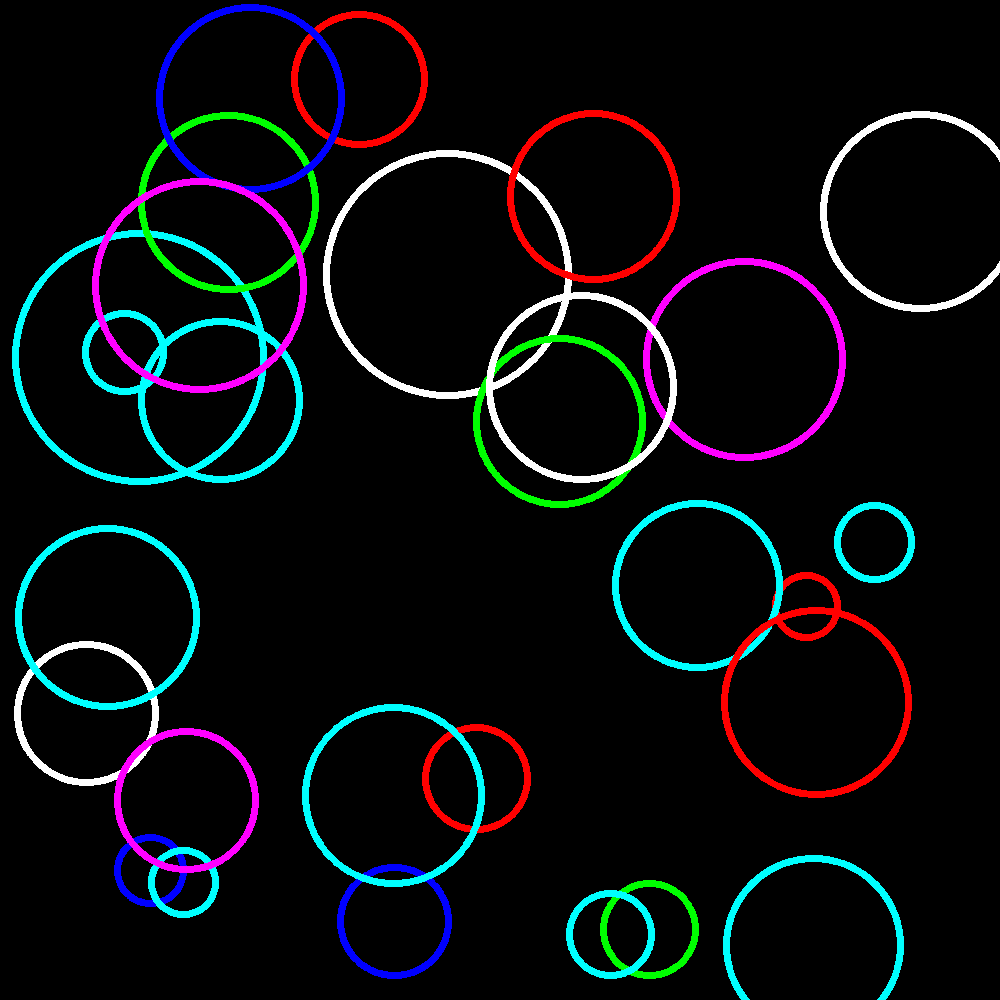
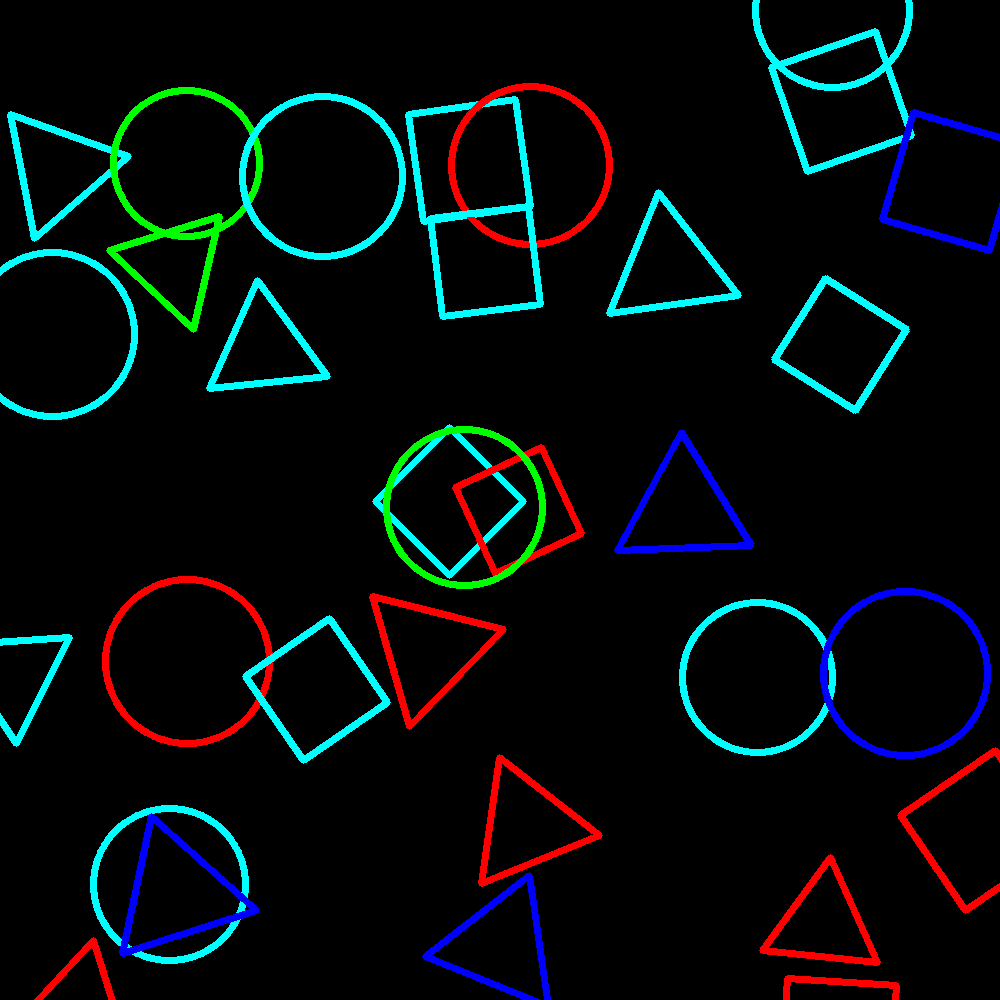
Improved grid generation

diff --git a/GeoShapesGenerator.py b/GeoShapesGenerator.py
@@ -12,13 +12,14 @@ class GeoShapesGenerator:
         self.tile_size = image_size // pieces
         self.random_min_size = int(0.05 * image_size)
         self.random_max_size = int(0.25 * image_size)
-        self.number_of_random_shapes = 20
+        self.number_of_random_shapes = 0
         self.colors = [(0, 0, 255), (0, 255, 0), (255, 0, 0),
                        (255, 255, 0), (255, 255, 0), (255, 0, 255)]
-        self.shapes = ["C", "S"]
+        self.shapes = ["C", "S", "T"]
         self.thickness = 5
         self.border_size = 1
         self.border_emptiness_thresh = 0.95
+        self.extra_space_size = 0.1
 
     def set_parameters(self, image_size: int, pieces: int) -> "GeoShapesGenerator":
         self.image_size = image_size
@@ -26,42 +27,41 @@ class GeoShapesGenerator:
         return self
 
     def generate_image(self) -> "GeoShapesGenerator":
-        def draw_square(center: tuple[int, int], radius: int, color: tuple[int, int, int]) -> None:
-            angle = random.randint(0, 89)
+        def draw_polygon(n: int, center: tuple[int, int], radius: int, color: tuple[int, int, int]) -> None:
+            angle_step = 360 // n
+            angle = random.randrange(0, angle_step)
             points = []
-            for _ in range(4):
+            for _ in range(n):
                 x_shift = int(radius * math.cos(math.radians(angle)))
                 y_shift = int(radius * math.sin(math.radians(angle)))
                 corner = [center[0] + x_shift, center[1] + y_shift]
                 points.append(corner)
-                angle += 90
+                angle += angle_step
             points = np.int32([points])
             cv.polylines(self.image, points, True, color, self.thickness)
 
-        def draw_traingle(center: tuple[int, int], radius: int, color: tuple[int, int, int]) -> None:  # TODO
-            pass
-
         def generate_possible_edges(y: int, x: int) -> list[tuple[int, int]]:
             edges = []
+            extra_space = int(self.extra_space_size * self.tile_size)
             if y != 0:  # top
                 y_pos = random.randint(
-                    y - int(0.1 * self.tile_size), y + int(0.1 * self.tile_size))
+                    y - extra_space, y + extra_space)
                 x_pos = random.randint(x, x + self.tile_size)
                 edges.append((y_pos, x_pos))
             if y != self.tile_size * (self.pieces - 1):  # bottom
                 y_pos = random.randint(
-                    y + self.tile_size - int(0.1 * self.tile_size), y + self.tile_size + int(0.1 * self.tile_size))
+                    y + self.tile_size - extra_space, y + self.tile_size + extra_space)
                 x_pos = random.randint(x, x + self.tile_size)
                 edges.append((y_pos, x_pos))
             if x != 0:  # left
                 y_pos = random.randint(y, y + self.tile_size)
                 x_pos = random.randint(
-                    x - int(0.1 * self.tile_size), x + int(0.1 * self.tile_size))
+                    x - extra_space, x + extra_space)
                 edges.append((y_pos, x_pos))
             if x != self.tile_size * (self.pieces - 1):  # right
                 y_pos = random.randint(y, y + self.tile_size)
                 x_pos = random.randint(
-                    x + self.tile_size - int(0.1 * self.tile_size), x + self.tile_size + int(0.1 * self.tile_size))
+                    x + self.tile_size - extra_space, x + self.tile_size + extra_space)
                 edges.append((y_pos, x_pos))
             return edges
 
@@ -78,9 +78,9 @@ class GeoShapesGenerator:
             if shape == "C":
                 cv.circle(self.image, center, radius, color, self.thickness)
             elif shape == "S":
-                draw_square(center, radius, color)
+                draw_polygon(4, center, radius, color)
             elif shape == "T":
-                draw_traingle(center, radius, color)
+                draw_polygon(3, center, radius, color)
 
         for y in range(0, self.image_size, self.tile_size):
             for x in range(0, self.image_size, self.tile_size):
@@ -118,9 +118,9 @@ class GeoShapesGenerator:
                         cv.circle(self.image, center, radius,
                                   color, self.thickness)
                     elif shape == "S":
-                        draw_square(center, radius, color)
+                        draw_polygon(4, center, radius, color)
                     elif shape == "T":
-                        draw_traingle(center, radius, color)
+                        draw_polygon(3, center, radius, color)
         return self
 
     def get_image(self) -> np.ndarray:

diff --git a/GridGenerator.py b/GridGenerator.py
@@ -16,11 +16,12 @@ class GridGenerator:
     def generate_grid(self) -> "GridGenerator":
         grid = np.ones(
             (self.image_size, self.image_size, 3), dtype=np.uint8)
-        for i in range(1, self.pieces):
-            cv.line(grid, (i * self.image_size // self.pieces, 0), (i *
-                    self.image_size // self.pieces, self.image_size), (255, 255, 255), 1)
-            cv.line(grid, (0, i * self.image_size // self.pieces), (self.image_size,
-                    i * self.image_size // self.pieces), (255, 255, 255), 1)
+        for i in range(0, self.pieces + 1):
+            pos = i * self.image_size // self.pieces
+            if pos == self.image_size:  # So that the last line is still in the image
+                pos -= 1
+            cv.line(grid, (pos, 0), (pos, self.image_size), (255, 255, 255), 1)
+            cv.line(grid, (0, pos), (self.image_size, pos), (255, 255, 255), 1)
         self.grid = grid
         return self
 

diff --git a/main.py b/main.py
@@ -2,7 +2,7 @@ from GeoShapesGenerator import GeoShapesGenerator
 from GridGenerator import GridGenerator
 import cv2 as cv
 
-tiles = 10
+tiles = 6
 image_size = 1000
 image = GeoShapesGenerator(image_size, tiles).generate_image().get_image()
 grid = GridGenerator(image_size, tiles).generate_grid().get_grid()
